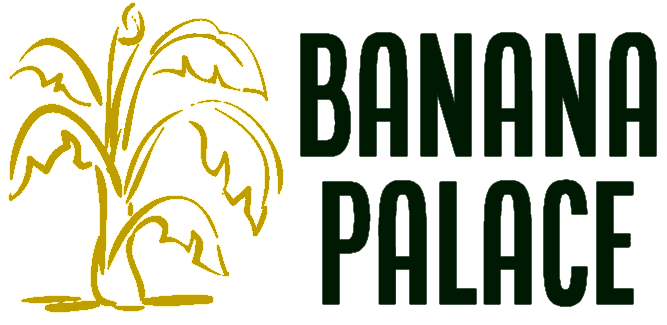
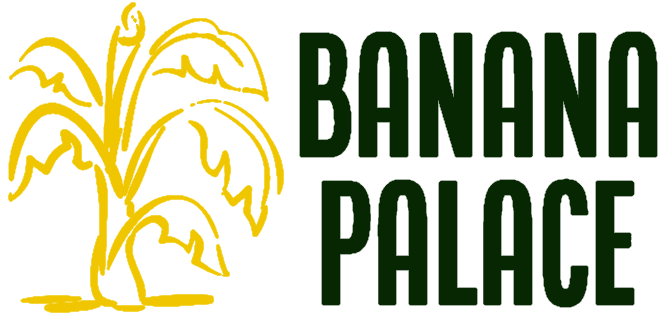
Adjust colors and add hover effect
Hover effect on navbar items with scale and color change

Change colors of logos to match project colors

diff --git a/static/css/style.css b/static/css/style.css
@@ -4,15 +4,29 @@
 
 :root {
   --color-primary-bg: #f8f6d1;
-  --color-secondary-bg: #e1c00c;
+  --color-secondary-bg: #EFC600;
   --color-tertiary-bg: #e1c10c27;
   --color-primary: #073503;
   --color-secondary: #1f7405;
   --color-tertiary: #50220b;
 }
 
+body,
+header,
+li {
+  background-color: var(--color-primary-bg);
+  color: var(--color-primary);
+}
+
+
 .nav-link {
   color: var(--color-primary);
+}
+
+#navbarNav .navbar-nav li a:hover {
+  color: var(--color-secondary);
+  transform: scale(1.1);
+  transition: all 0.4s ease-out;
 }
 
 .navbar-nav .nav-link.active,
@@ -20,9 +34,6 @@
   color: var(--color-secondary);
 }
 
-/* #navbarNav {
-  background-color: var(--color-tertiary-bg);
-} */
 
 /* --------------------------
 ------- Global styles -------
@@ -30,8 +41,6 @@
 
 body {
   min-height: 150vh;
-  background-color: var(--color-primary-bg);
-  color: var(--color-primary);
 }
 
 main {
@@ -63,7 +72,6 @@ main {
 }
 
 
-
 /* --------------------------
 --------- Typography --------
 -------------------------- */
@@ -86,3 +94,18 @@ main {
 /* --------------------------
 ------- Media queries -------
 -------------------------- */
+
+
+
+
+
+
+/* --------------------------
+-------- TESTING ONLY -------
+-------------------------- */
+
+
+h1 {
+  height: 15rem;
+  background-color: #50220b;
+}
